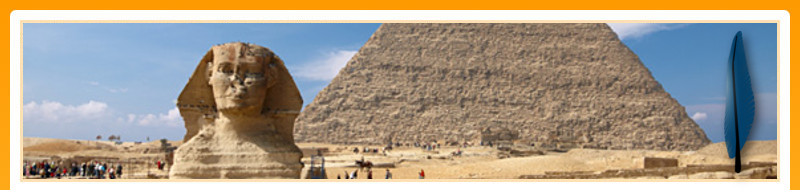
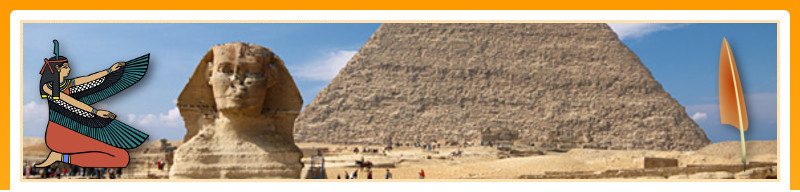
Improved documentation.

Changed region(s): [[0.0312, 0.2188, 0.2188, 0.9375], [0.875, 0.1562, 0.9688, 0.9375]]

diff --git a/doc/theme/template.html b/doc/theme/template.html
@@ -37,7 +37,8 @@
 
 <div id="footer">
 Copyright (c) 2016, hugues.casse@laposte.net<br/>
-Adapted from <a href="http://www.free-css-templates.com/">Free CSS Templates</a>, Thanks to <a href="http://www.openwebdesign.org/">web design</a>
+Adapted from <a href="http://www.free-css-templates.com/">Free CSS Templates</a>, Thanks to <a href="http://www.openwebdesign.org/">web design</a><br/>
+Images from <a href="https://openclipart.org/">OpenClipart</a>
 </div>
 </div>
 

diff --git a/maat/__init__.py b/maat/__init__.py
@@ -16,6 +16,7 @@ import sys
 
 
 # global variables
+version = "0.3"
 topdir = env.topdir	# top directory
 todo = []			# goals to do
 verbose = False		# verbose mode
@@ -60,10 +61,17 @@ if not inspect.stack()[-1][1].endswith("pydoc"):
 	parser.add_argument('free', type=str, nargs='*', metavar="goal", help="goal or Definitions")
 	parser.add_argument('-v',  '--verbose', action="store_true", default=False, help="verbose mode")
 	parser.add_argument('-l', '--list', action="store_true", default=False, help="display available goals")
+	parser.add_argument('-V', '--version', action="store_true", default=False, help="display the current version")
 	parser.add_argument('-p', '--print-data-base', action="store_true", default=False, help="print the recipe database")
 
 	# get arguments
 	args = parser.parse_args()
+	if args.version:
+		print \
+"""Maat V%s\nCopyright (c) 2016 H. Casse <hugues.casse@laposte.net>
+This is free software; see the source for copying conditions.  There is NO
+warranty; not even for MERCHANTABILITY or FITNESS FOR A PARTICULAR PURPOSE.""" % version
+		exit(0)
 	verbose = args.verbose
 	do_config = False
 	do_list = args.list
